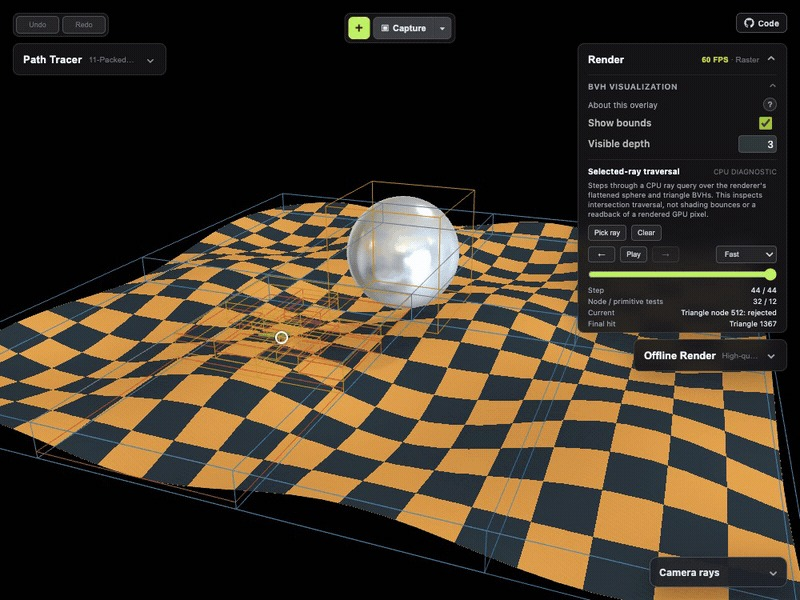
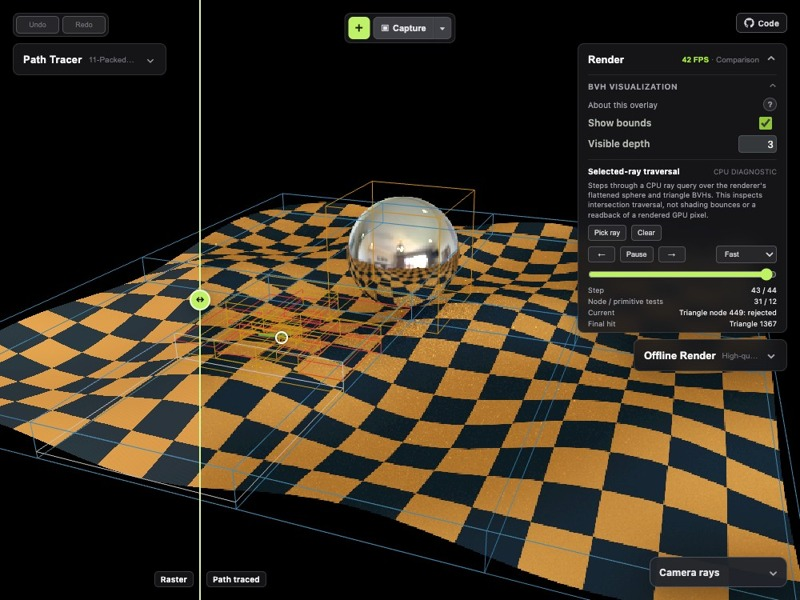
Polish demo pacing and show path tracing during BVH traversal

diff --git a/docs/media/README.md b/docs/media/README.md
@@ -15,13 +15,13 @@ Captured from the deployed `main` build at commit `148423b` on September 6, 2026
 
 [Animated preview](emissive-demo.gif) · [Static poster](emissive-demo-poster.jpg)
 
-Enables debug BVH bounds, moves the scene camera out and back, changes BVH depth, ray depth, and ray count, then sweeps the comparison divider across the teapot and metal sphere. Recorded at 0.75× resolution, one sample per frame, depth 8, and MIS. The GIF is 800 × 600 at 12 fps with original playback timing. Noise during camera movement is retained; displayed application FPS is not a benchmark.
+Recaptured from deployed commit `0bfa80d` on September 7, 2026. Enables debug BVH bounds, moves the scene camera out and back, changes BVH depth, ray depth, and ray count, then sweeps the comparison divider across the teapot and metal sphere. Drags ease in and out, with a quarter-second pause at either end of the divider sweep. Recorded at 0.75× resolution, one sample per frame, depth 8, and MIS. The approximately 9-second GIF is 800 × 600 at 20 fps with original playback timing. Noise during camera movement is retained; displayed application FPS is not a benchmark.
 
 ## CPU BVH ray-traversal demo
 
 [Animated preview](bvh-traversal-viz.gif) · [Static poster](bvh-traversal-viz-poster.jpg)
 
-Demonstrates the packed-triangle scene's BVH bounds, picking a ray, playing through its traversal, and orbiting the result. This uses the CPU reference traversal algorithm over the production flattened BVH, not GPU pixel readback. The approximately 13-second GIF is 800 × 600 at 12 fps with original playback timing.
+Recaptured from deployed commit `0bfa80d` on September 7, 2026. Demonstrates the packed-triangle scene in Comparison mode: raster on the left 25%, path tracing on the right, with BVH bounds and picked-ray traversal overlaid. Recorded at 0.75× resolution, one sample per frame, depth 8, and MIS. Picks a ray, plays through its traversal, and orbits the result with eased camera movements. The traversal uses the CPU reference algorithm over the production flattened BVH, not GPU pixel readback. The approximately 14-second GIF is 800 × 600 at 20 fps with original playback timing.
 
 ## Credits
 

diff --git a/README.md b/README.md
@@ -18,7 +18,7 @@ Captured in the app. [Images, settings, and credits](docs/media/README.md).
 
 Camera movement, ray visualization, and raster/path-traced comparison.
 
-[![CPU ray-traversal demo: visualize BVH bounds, pick a ray, and inspect its traversal](docs/media/bvh-traversal-viz.gif)](https://pathtracer-lab.vercel.app/)
+[![CPU ray-traversal demo in raster/path-traced comparison mode: visualize BVH bounds, pick a ray, and inspect its traversal](docs/media/bvh-traversal-viz.gif)](https://pathtracer-lab.vercel.app/)
 
 Step through a picked ray's BVH traversal. This is a CPU diagnostic, not live GPU pixel readback.
 
